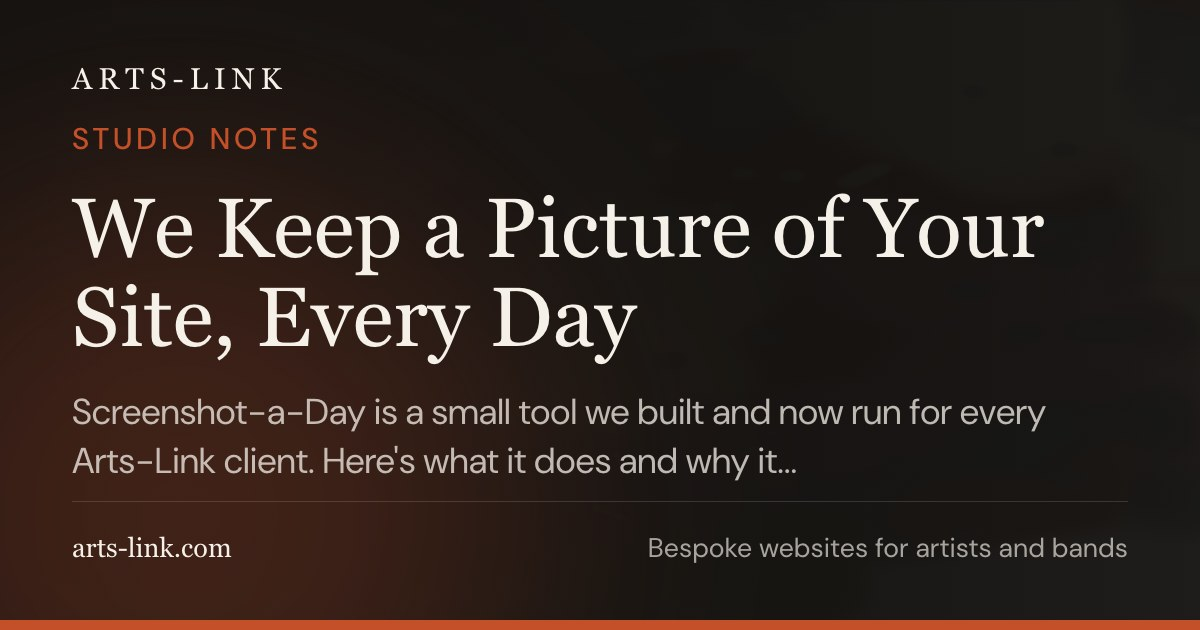
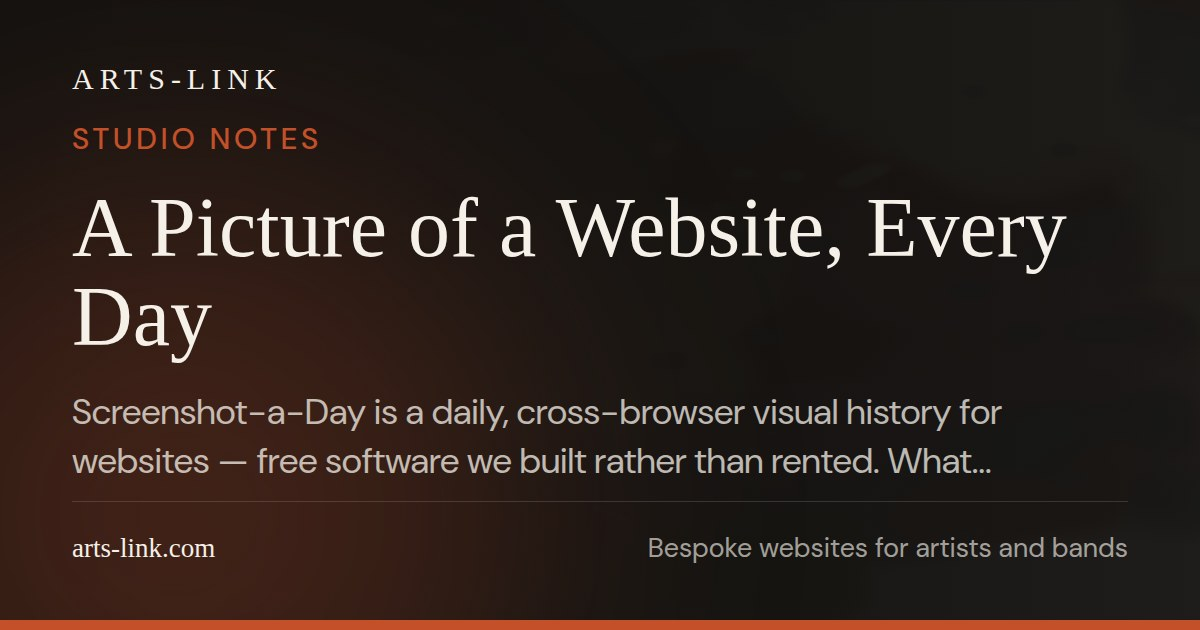
Reframe the Screenshot-a-Day post around the tool, not a client promise
The draft's crux was a standing service guarantee the studio has never
made: "We Keep a Picture of Your Site, Every Day", opening on "Every
Arts-Link client site now has its home page photographed once a day" and
closing that section with "This is included in what we already do." That
commits us publicly to work nobody agreed to, and assumes consent from
clients who were never asked whether they want a daily photographic
record of their site kept on someone else's machine.

Recentre the post on the software and state the client side honestly:
we run it on our own sites and on client sites where the client asked,
it is not automatic, and we do not photograph a site we were not asked
to. Screenshot-a-Day's own visibility model (public, unlisted behind a
noindex share token, or private and never published) carries that as a
feature rather than a caveat.

The draft also claimed history that cannot exist — 0.1.0 shipped two
days ago, so "a year of your site in a few seconds" and "we can show you
what your site looked like ... last spring" describe an archive nobody
has, and could never have retroactively. Every capability is now stated
forward-looking, and the fact that the archive only runs forward gets
its own section instead of being quietly omitted.

Also correct against the project repo: 0.1.1 is current, the roadmap is
the real one from ROADMAP.md (nothing committed without an issue and an
ADR) rather than an invented list, the unverifiable project-board link
[…]

diff --git a/content/blog/screenshot-a-day/index.md b/content/blog/screenshot-a-day/index.md
@@ -1,38 +1,68 @@
 +++
-title = "We Keep a Picture of Your Site, Every Day"
-date = 2026-09-05
-description = "Screenshot-a-Day is a small tool we built and now run for every Arts-Link client. Here's what it does and why it matters."
+title = "A Picture of a Website, Every Day"
+date = 2026-09-07
+description = "Screenshot-a-Day is a daily, cross-browser visual history for websites — free software we built rather than rented. What it does, and who gets one."
 draft = false
 +++
 
-Every Arts-Link client site now has its home page photographed once a day, and we keep every one of those pictures.
+We spent part of this year building a small piece of software called **Screenshot-a-Day**. Version 0.1.0 went out on Saturday, 0.1.1 followed two days later, and both are free and open source. You can [see a gallery it produced](https://screenshots.arts-link.com/) or [read the source](https://github.com/arts-link/screenshot-a-day).
 
-The tool doing it is called **Screenshot-a-Day**. We built it, we released version 0.1.0 this week as free and open-source software, and you can [see one of its galleries in action](https://screenshots.arts-link.com/).
+It photographs a website once a day and keeps every picture.
+
+That's the whole idea. The rest of this is why it turns out to be worth doing.
 
 ---
 
-## The Problem It Solves
+## The Failure It's For
 
 Most website monitoring answers one question: is the site up? That's a useful question, and it's not the one that usually bites.
 
-What actually happens is quieter. A plugin updates and the hero image stops loading — but only in Safari. A host changes a default and your typography shifts. A form quietly stops sending. The site is up the entire time. Nobody notices for weeks, and when someone finally does, there's no way to say when it started or what it looked like before.
+What actually happens is quieter. A plugin updates and the hero image stops loading — but only in Safari. A host changes a default and the typography shifts. A form quietly stops sending. The site is up the entire time. Nobody notices for weeks, and when someone finally does, there's no way to say when it started or what it looked like before.
 
-That's a bad position for you, and it's a bad position for us. So we stopped guessing.
+An uptime monitor catches none of that, because nothing is down. A person looking at the site every morning would catch it — but nobody has that morning, and human attention isn't reproducible anyway. You'd want the same browser, the same window size, the same scroll position, every day, indefinitely.
+
+That's a machine's job.
 
 ---
 
-## What We Actually Do for You
+## What It Does
 
-Once a day, on our own machine, your home page is loaded and photographed in three different browsers — Chrome, Firefox, and Safari's engine. Three pictures, because sites break in one browser and not the others more often than you'd think.
+A project in Screenshot-a-Day is a URL plus a set of named capture profiles. Each profile pins a browser — Chromium, Firefox, or WebKit, the engine behind Safari — along with a viewport and rendering preferences. A scheduled run fires every enabled profile as one batch, so the browsers stay in step with each other, and one of them failing doesn't take the others down with it.
 
-Those pictures are kept. Not the latest one — all of them. Which means:
+Three browsers, because sites break in one and not the others more often than you'd think.
 
-- **We can show you what your site looked like on any past day.** Before the redesign. Before the plugin update. Last spring.
-- **We can put two days side by side** and see exactly what moved, including a view that highlights the changed pixels.
-- **We can play the whole history as a short animation.** A year of your site in a few seconds is a genuinely different way to see your own work.
-- **When something breaks, we can find when.** Not approximately. The day.
+Then it keeps the pictures. Not the latest one — all of them. What that buys you, from here forward:
 
-This is included in what we already do. You don't have to set anything up, install anything, or think about it.
+- **Any two days can be put side by side.** There are four ways to look at the pair: side by side, a split slider, an overlay, and a heatmap that lights up the pixels that moved. The heatmap is the one that finds things you weren't looking for.
+- **A run of days becomes an animation.** GIF or WebM, generated from the captures. A site's slow drift is much easier to see at speed than as a list of dates.
+- **When something breaks, the archive says when.** Not approximately — the day, and which browser noticed first.
+- **The galleries can live somewhere else.** Screenshot-a-Day renders a complete static site and deploys it to a Vercel project, a Netlify site, or an SFTP directory, so the machine holding the archive never needs a public door into it. It makes outbound connections only.
+
+There are also signed webhooks for wiring it into other tools, and an experimental MCP endpoint so an agent can inspect the capture history or queue a run. Those matter to about four people, and if you're one of them, the [documentation](https://arts-link.github.io/screenshot-a-day/) is thorough.
+
+The self-hosted application collects no telemetry. It doesn't phone us.
+
+---
+
+## The Archive Is Two Days Old
+
+That's the awkward, unavoidable thing about a record like this: it only runs forward.
+
+There is no version of this tool that shows you what your site looked like last spring, because nobody took the picture. The earliest day you can ever have is the day you start. Everything above describes what accumulates from here — it isn't a library we're sitting on.
+
+Worth saying plainly, because *visual history* is the kind of phrase that sounds like it arrives with a history included.
+
+---
+
+## Who Gets One
+
+We run it on our own sites, and on a handful of client sites where the client asked for it.
+
+It isn't automatic, and it isn't part of what you're already paying for. We don't photograph a site we weren't asked to photograph — a visual record of someone's work is theirs to want or not want, and the project's own documentation puts the question of permission squarely on whoever runs it.
+
+Where a gallery does exist, its visibility is a setting rather than a default. A project can be public and indexed; or unlisted, at a share-token URL that carries `noindex` and appears on no index page; or private, in which case nothing is published anywhere and the captures stay on the machine that took them.
+
+If you're a client and you'd like a gallery for your site, say so and we'll set one up. If you'd rather we didn't, that's already the case.
 
 ---
 
@@ -40,28 +70,30 @@ This is included in what we already do. You don't have to set anything up, insta
 
 There are services that do a version of this. We looked at them carefully, and two things stopped us.
 
-The first is cost that scales the wrong way. These tools charge per site watched and per day of history kept, monthly, forever. Watching a dozen client sites and keeping years of history is exactly the usage that gets expensive — and years of history is the whole point.
+The first is cost that scales the wrong way. They charge per site watched and per day of history kept, monthly, forever — so the bill grows in exactly the dimension the tool is supposed to be good at. Something that gets more useful the longer it runs shouldn't get more expensive the longer it runs.
 
-The second matters more. Using one of those services would mean the visual record of your site lives in a company's account, under their retention policy, on their terms. If they change their pricing, or their storage limits, or go away, the history goes with them. That's the same failure we spend most of our time rescuing people *from*. It would have been strange to solve it by signing up for another one.
+The second matters more. Using one of those services would mean the visual record of a site lives in a company's account, under their retention policy, on their terms. If they change their pricing, or their storage limits, or go away, the record goes with them. That's the same failure we spend most of our time rescuing people *from*. It would have been strange to solve it by signing up for another one.
 
-So Screenshot-a-Day runs on hardware we own. The archive sits on a machine in our office. Nothing about it depends on a subscription staying paid.
+So Screenshot-a-Day runs on hardware we own, and the archive sits on a disk we can walk over to. Nothing about it depends on a subscription staying paid.
 
 ---
 
 ## It's Yours Too, If You Want It
 
-We released it as open-source software under the AGPL, which is a license chosen specifically to keep it that way — anyone who runs it and offers it to others has to share their improvements back. It can't quietly become a closed product later, including by us.
+We released it under the AGPL, a license chosen specifically to keep it that way — anyone who runs it and offers it to others has to share their improvements back. It can't quietly become a closed product later, including by us.
 
-Practically, that means two things. If you're technical, or you know someone who is, you can [run your own copy](https://github.com/arts-link/screenshot-a-day) — it's two Docker containers and it costs nothing but electricity. And if you'd rather we just handle it, that's what we're already doing.
+Practically, that means two things. If you're technical, or you know someone who is, you can [run your own copy](https://github.com/arts-link/screenshot-a-day#quick-start): two containers, one volume, on a Docker host you probably already have. It costs nothing but electricity.
 
-Either way, the history is yours. If you ever leave, you take the archive with you. That's not a promise we're making about our good intentions; it's just what files on a disk are.
+And if there's a gallery of yours on our machine, the files are files. If you ever leave, you take them with you. That isn't a promise about our good intentions; it's just what a folder of images is.
 
 ---
 
 ## Where It's Going
 
-Version 0.1.0 is a first release and we're honest about it being early. The next things on the list are whole-site archives rather than just home pages, better comparison tools, and clearer setup for people running their own.
+Version 0.1 is deliberately small, and we're honest about the edges: SQLite, a single API replica, forward-only migrations, and TLS, backups and retention left to whoever runs it.
 
-Planning happens in the open on our [public roadmap board](https://github.com/orgs/arts-link/projects/2). If you're a developer and you'd like to help, the smaller issues in the first two phases are good places to start — and if you're a client with an opinion about what you'd want to see in your own gallery, tell us. That's the more useful kind of feedback right now.
+What comes next isn't settled. The candidates written down are S3-compatible storage, Postgres, remote worker pools, notification adapters, and possibly a hosted version for people who'd rather not run anything. None of them is committed — the project's rule is that nothing gets built until an issue and an architecture decision record make the case for it, including the case against.
+
+What would help most right now is use. If you self-host it and something about the setup is confusing, [open an issue](https://github.com/arts-link/screenshot-a-day/issues); the deployment path is the part most likely to be wrong, because we've mostly deployed it in one place. And if you're a client with an opinion about what you'd want to see in a gallery of your own site, tell us. That's the more useful kind of feedback at this stage.
 
 *If you want the engineering side of this — the architecture, the decisions, and the dependency we deleted three days before release — Ben wrote that up separately: [Building Screenshot-a-Day v0.1.0](https://www.benstrawbridge.com/posts/building-screenshot-a-day-v0-1-0/).*
